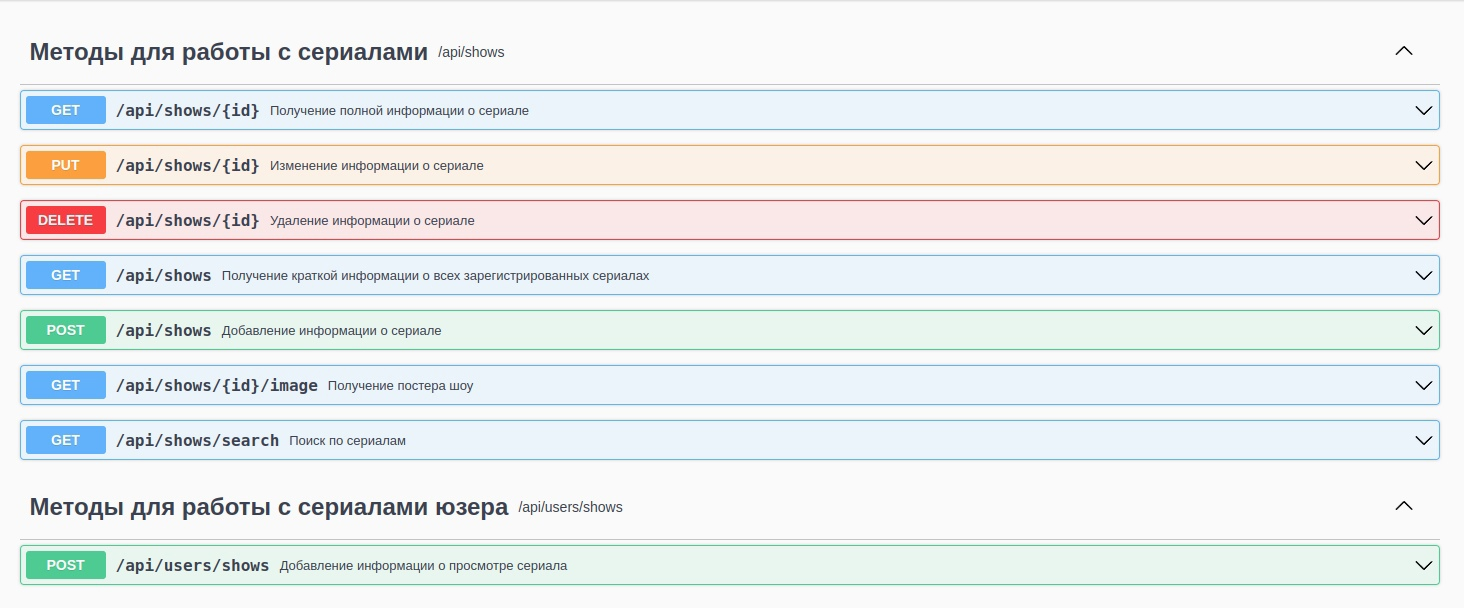
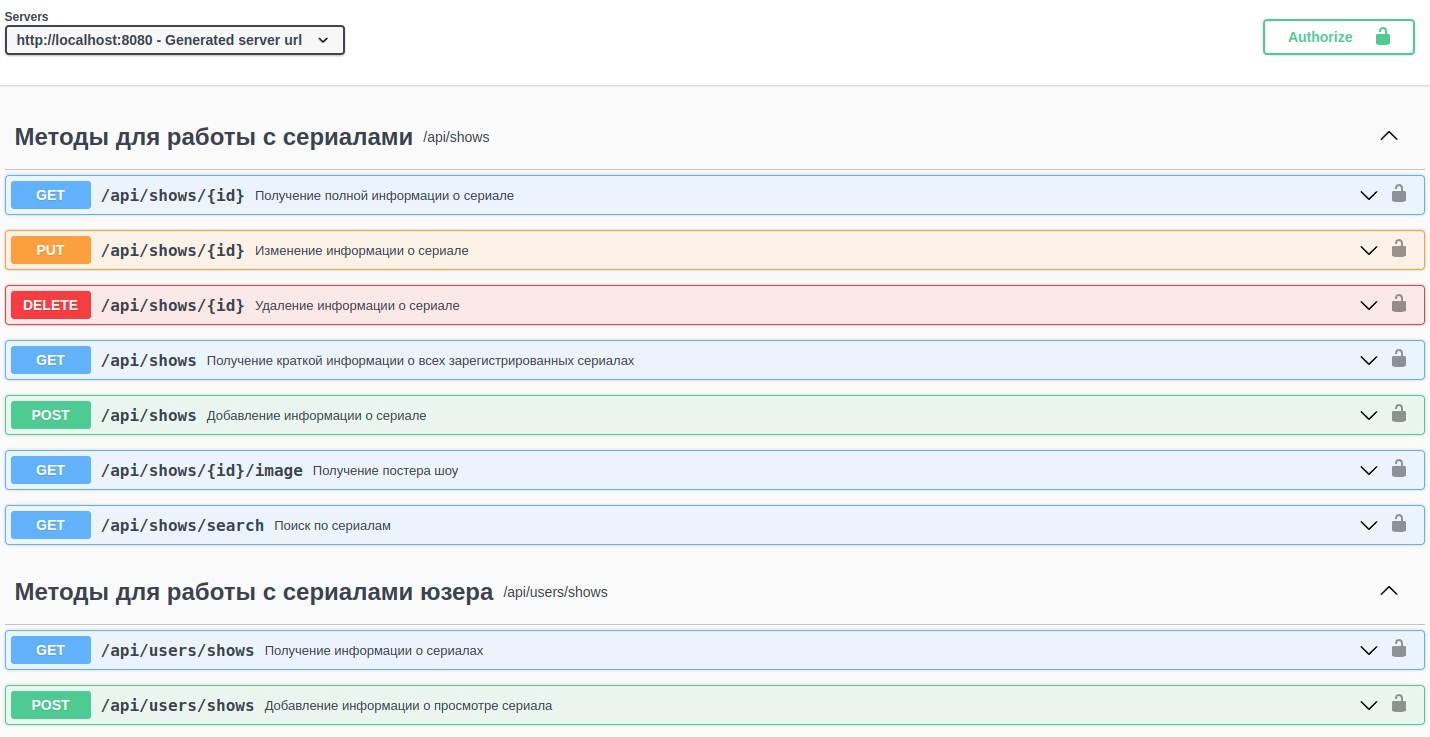
MASTER OpenApi auth configuration

Changed region(s): [[0.0, 0.0, 1.0, 1.0], [0.8615, 0.0, 1.0, 0.0938]]

diff --git a/services/shows-frontend-service/src/main/resources/templates/myShows.html b/services/shows-frontend-service/src/main/resources/templates/myShows.html
@@ -11,7 +11,7 @@
 <a href="/">
     <button>Home</button>
 </a>
-<a href="/myShows">
+<a href="/front/myShows">
     <button>My shows</button>
 </a>
 <!--<form th:action="@{/front/search}" method="get">-->

diff --git a/services/shows-frontend-service/src/main/resources/templates/indexUser.html b/services/shows-frontend-service/src/main/resources/templates/indexUser.html
@@ -11,7 +11,7 @@
 <a href="/">
     <button>Home</button>
 </a>
-<a href="/myShows">
+<a href="/front/myShows">
     <button>My shows</button>
 </a>
 <form th:action="@{/front/search}" method="get">

diff --git a/common/openapi/src/main/java/com/demo/showcase/common/openapi/OpenApiConfig.java b/common/openapi/src/main/java/com/demo/showcase/common/openapi/OpenApiConfig.java
@@ -1,0 +1,27 @@
+package com.demo.showcase.common.openapi;
+
+import io.swagger.v3.oas.models.Components;
+import io.swagger.v3.oas.models.OpenAPI;
+import io.swagger.v3.oas.models.security.SecurityRequirement;
+import io.swagger.v3.oas.models.security.SecurityScheme;
+import org.springframework.context.annotation.Bean;
+import org.springframework.context.annotation.Configuration;
+
+@Configuration
+public class OpenApiConfig {
+
+    @Bean
+    public OpenAPI customOpenAPI() {
+        final String securitySchemeName = "bearerAuth";
+        return new OpenAPI()
+                   .addSecurityItem(new SecurityRequirement()
+                                        .addList(securitySchemeName))
+                   .components(new Components()
+                                   .addSecuritySchemes(securitySchemeName, new SecurityScheme()
+                                                                               .name(securitySchemeName)
+                                                                               .type(SecurityScheme.Type.HTTP)
+                                                                               .scheme("bearer")
+                                                                               .bearerFormat("JWT")));
+    }
+
+}

diff --git a/services/shows-frontend-service/src/main/java/com/demo/showcase/front/controller/FrontController.java b/services/shows-frontend-service/src/main/java/com/demo/showcase/front/controller/FrontController.java
@@ -82,7 +82,7 @@ public class FrontController {
     }
 
     @PreAuthorize("hasAnyRole('USER')")
-    @GetMapping("/myShows")
+    @GetMapping(BASE_URL + "/myShows")
     public String myShows(Model model) {
         List<GetUserShowsResponse> shows = usersShowsFeignClient.getUserShows(KeycloakUtils.getBearerToken());
         model.addAttribute("shows", shows);

diff --git a/README.md b/README.md
@@ -2,23 +2,6 @@
 
 Demo project for skills demonstration \
 **About project:** TV shows list type of website with complex backend (microservices architecture) \
-**Structure:**
-* services\
-  Contains backend services
-    * Migration service \
-      Service for database migrations with Liquibase
-    * Shows data service \
-      Service with API to access data about TV-Shows
-    * Frontend service \
-      Frontend service, using thymeleaf
-* common \
-  Contains common shared configurations, sources and e.t.c.
-    * data
-    * enums
-    * ...
-* docker \
-  Contains docker-compose run files for easy running 
-
 **RUN GUIDE:** \
 `cd docker` \
 Start postgres and configured keycloak: `sudo docker-compose -f compose.yml up -d` \
@@ -27,22 +10,7 @@ Start data service \
 Start frontend service \
 You're up, frontend address by default is: localhost:8081/ \
 Backend swagger is available at localhost:8080/swagger-ui/index.html \
-Default pre configured users: `admin admin`; `user user`
-
-**Technology stack:**
-* Framework: Spring boot 2
-* Build: Maven
-* ORM: Hibernate
-* DB: postgres
-* Local run: Docker
-* SSO: Keycloak
-* Mapping: Mapstruct
-* Errors: zalando/problem
-* Http client: feign
-* Swagger: springdoc-openapi
-* Front: thymeleaf, bootstrap (pain in the ass, should've used separate front) 
-* Migrations: liquibase
-* And probabbly something else I forgot
+Default pre configured users: `admin admin`; `user user`  
 
 -----
 **PICTURES (some might be outdated but won't redo screenshots):**
@@ -59,3 +27,36 @@ Default pre configured users: `admin admin`; `user user`
 | *Swagger* |
 | ![Users added shows page](/pictures/6.jpg "Users added shows page") |
 | *Users added shows page* |  
+
+-----
+**Structure:**
+* services\
+  Contains backend services
+    * Migration service \
+      Service for database migrations with Liquibase
+    * Shows data service \
+      Service with API to access data about TV-Shows
+    * Frontend service \
+      Frontend service, using thymeleaf
+* common \
+  Contains common shared configurations, sources and e.t.c.
+    * data
+    * enums
+    * ...
+* docker \
+  Contains docker-compose run files for easy running  
+
+**Technology stack:**
+* Framework: Spring boot 2
+* Build: Maven
+* ORM: Hibernate
+* DB: postgres
+* Local run: Docker
+* SSO: Keycloak
+* Mapping: Mapstruct
+* Errors: zalando/problem
+* Http client: feign
+* Swagger: springdoc-openapi
+* Front: thymeleaf, bootstrap (pain in the ass, should've used separate front)
+* Migrations: liquibase
+* And probabbly something else I forgot
